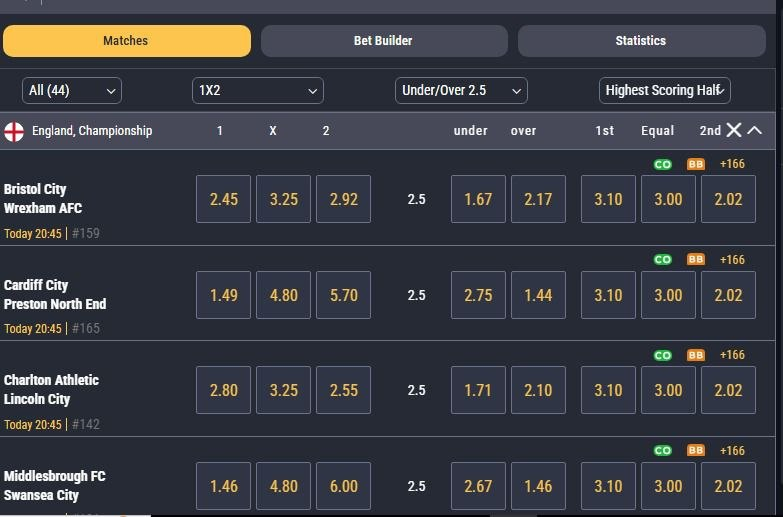
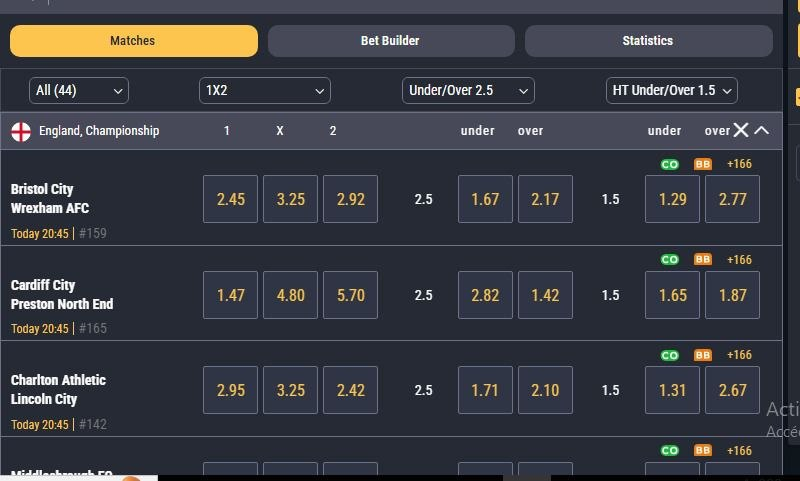
PARI: commande Telegram /capture

Changed region(s): [[0.0, 0.0, 1.0, 1.0], [0.2452, 0.343, 0.4904, 0.4678], [0.2452, 0.499, 0.4598, 0.5301]]

diff --git a/MONDES_FORGES/PARI/F01_SENTINEL/IN/capture_telegram.md b/MONDES_FORGES/PARI/F01_SENTINEL/IN/capture_telegram.md
@@ -1,6 +1,5 @@
-| Compétition & Match | Horaire | 1 | X | 2 | Moins 2.5 | Plus 2.5 | 1st | Égal | 2nd |
-| :--- | :--- | :---: | :---: | :---: | :---: | :---: | :---: | :---: | :---: |
-| Winner FOOT<br>Middlesbrough FC vs Swansea City | Aujourd'hui  | 1.46 | 4.8 | 6.0 | 2.67 | 1.46 | 3.1 | 3.0 | 2.02 |
-| Winner FOOT<br>Bristol City vs Wrexham AFC | Aujourd'hui 20:45 (#159) | 2.45 | 3.25 | 2.92 | 1.67 | 2.17 | 3.1 | 3.0 | 2.02 |
-| Winner FOOT<br>Cardiff City vs Preston North End | Aujourd'hui 20:45 (#165) | 1.49 | 4.8 | 5.7 | 2.75 | 1.44 | 3.1 | 3.0 | 2.02 |
-| Winner FOOT<br>Charlton Athletic vs Lincoln City | Aujourd'hui 20:45 (#142) | 2.8 | 3.25 | 2.55 | 1.71 | 2.1 | 3.1 | 3.0 | 2.02 |
+| Compétition & Match | Horaire | 1 | X | 2 | Moins 2.5 | Plus 2.5 | 1st | Égal | 2nd | HT Moins 1.5 | HT Plus 1.5 |
+| :--- | :--- | :---: | :---: | :---: | :---: | :---: | :---: | :---: | :---: | :---: | :---: |
+| Winner FOOT<br>Bristol City vs Wrexham AFC | Aujourd'hui 20:45 (#159) | 2.45 | 3.25 | 2.92 | 1.67 | 2.17 |  |  |  | 1.29 | 2.77 |
+| Winner FOOT<br>Cardiff City vs Preston North End | Aujourd'hui 20:45 (#165) | 1.47 | 4.8 | 5.7 | 2.82 | 1.42 |  |  |  | 1.65 | 1.87 |
+| Winner FOOT<br>Charlton Athletic vs Lincoln City | Aujourd'hui 20:45 (#142) | 2.95 | 3.25 | 2.42 | 1.71 | 2.1 |  |  |  | 1.31 | 2.67 |
